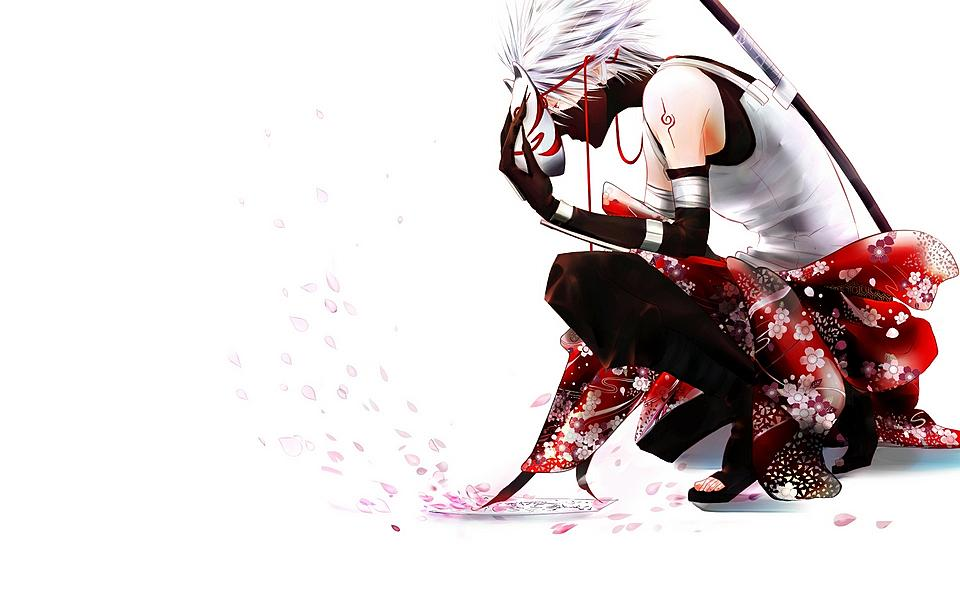
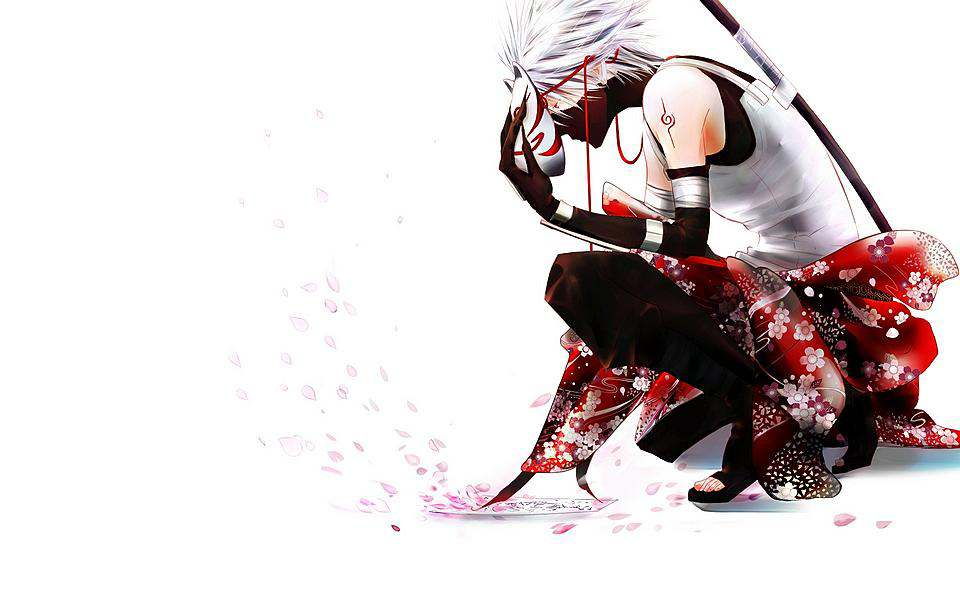
图片压缩

diff --git a/src/pages/blog/Index.vue b/src/pages/blog/Index.vue
@@ -95,7 +95,7 @@ export default {
 				},
 				{
 					txt: '123',
-					img: require('@/assets/img/blog/pic/swiper_06.jpeg')
+					img: require('@/assets/img/blog/pic/swiper_06.jpg')
 				}
 			],
 			swiperSlides: [1, 2, 3, 4, 5, 6],
